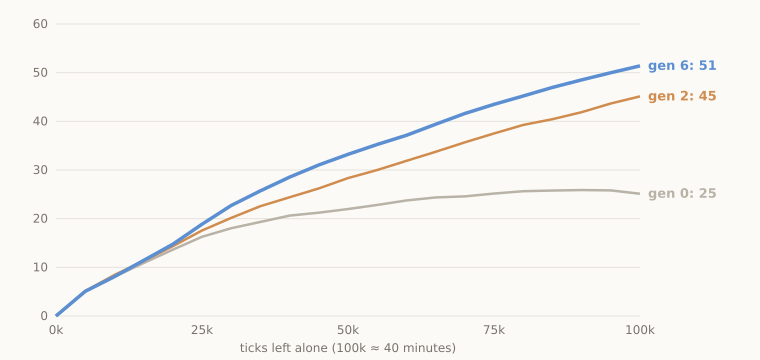
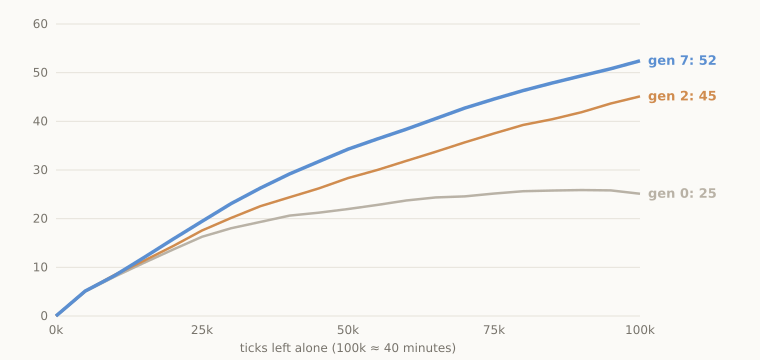
Gen 7: adits into hillsides for worlds with no room for a shaft
When no mine shaft fits (mountain tops), the colony drives a tunnel straight
into the hillside from a standable ledge: an open cutting that becomes a roofed,
timbered tunnel, then a nest with its own store and rooms. Adits are only
tried after a shaft search has recently failed.

Benchmark (32 worlds, 100k ticks): 28.5 / 52.4 at 40 min / worst 16.2,
up from 27.8 / 51.4 / 6.7. Experiments page updated with a Gen 7 section.

Claude-Session: https://claude.ai/code/session_012QCncmftNLcYCcRZ8MbJiX

diff --git a/quartz/components/scripts/particles/colony.ts b/quartz/components/scripts/particles/colony.ts
@@ -130,7 +130,13 @@ export interface Nest {
   s: number // surface row at the shaft
   b: number // bottom gallery's floor row
   levels: { y: number; xl: number; xr: number }[] // galleries: floor row, dug columns
+  adit?: boolean // dug straight into a hillside: no shaft
+  store?: number[] // where its store is, if not beside the shaft
 }
+
+// where a nest's galleries are measured from (for the timber spacing)
+const nestOrigin = (n: Nest) => (n.adit && n.store ? n.store[0] : n.lx + 1)
+const nestStore = (n: Nest) => n.store ?? [n.lx - 3, n.s - 1]
 
 export interface Colony {
   homeX: number
@@ -153,6 +159,7 @@ export interface Colony {
   gapBridges: number
   nests: Nest[] // finished mines and the tunnels dug off them
   badSites: number[][] // [x0, x1, until tick]: recently abandoned, don't build there
+  mineFailT?: number // last time no site for a mine shaft could be found
   safeT: number // tick the safe set was last computed
   safeDirty: boolean
   stats: { placed: number; felled: number; arrived: number; towers: number }
@@ -1189,14 +1196,17 @@ function workQuarry(w: World, g: Guy) {
 // mine shaft, and the ground floor of every finished tower. They share one stock, so
 // a guy just uses the nearest.
 export function depots(c: Colony): number[][] {
-  return [[c.homeX, c.homeY], ...c.nests.map((n) => [n.lx - 3, n.s - 1])]
+  return [[c.homeX, c.homeY], ...c.nests.map(nestStore)]
 }
 
 function startStock(w: World, g: Guy, mode: "deposit" | "withdraw", r = 0, need = 0): boolean {
   const c = w.colony
   w.nav.beginGoals()
   w.nav.markBox(c.homeX, c.homeY, 4, -3, 3, 0)
-  for (const n of c.nests) w.nav.markBox(n.lx - 3, n.s - 1, 2, -2, 2, 0)
+  for (const n of c.nests) {
+    const [x, y] = nestStore(n)
+    w.nav.markBox(x, y, 2, -2, 2, 0)
+  }
   for (const t of c.towers)
     if (t.complete) w.nav.markBox((t.x0 + t.x1) >> 1, t.base - 1, ((t.x1 - t.x0) >> 1) - 1, 0, 0, 0)
   if (!go(w, g)) return false
@@ -1434,6 +1444,11 @@ function plan(w: World) {
         ],
         [c.gapBridges < 1 + Math.floor(w.W / 160) ? 2.5 : 0, () => tryGapBridge(w)],
         [c.nests.length ? 2 + idle : 0, () => tryTunnel(w)],
+        // adits are for when there's nowhere flat enough for a mine shaft
+        [
+          c.mines < 1 + Math.floor(w.W / 160) && w.tick - (c.mineFailT ?? -1e9) < 3000 ? 3 : 0,
+          () => tryAdit(w),
+        ],
       ]
       // weighted shuffle, then take the first that works
       const order: (() => boolean)[] = []
@@ -1549,6 +1564,17 @@ function completeProject(w: World, p: Project) {
     const d = p.data
     c.nests.push({ lx: d.lx, s: d.s, b: d.b, levels: [{ y: d.b, xl: d.xl, xr: d.xr }] })
     nestRooms(w, c.nests.length - 1, d.b, d.xl, d.xr)
+  } else if (p.kind === "adit" && p.data) {
+    const d = p.data
+    c.nests.push({
+      lx: d.x,
+      s: d.y + 1,
+      b: d.y,
+      levels: [{ y: d.y, xl: d.xl, xr: d.xr }],
+      adit: true,
+      store: [d.x, d.y],
+    })
+    nestRooms(w, c.nests.length - 1, d.y, d.xl, d.xr)
   } else if (p.kind === "tunnel" && p.data) {
     const d = p.data
     const n = c.nests[d.nest]
@@ -2268,7 +2294,7 @@ function nestRooms(w: World, nest: number, y: number, xl: number, xr: number) {
   const runs: [number, number][] = []
   let a = -1
   for (let x = xl; x <= xr + 1; x++) {
-    const ok = x <= xr && (!n || x < n.lx - 1 || x > n.lx + 3) && w.get(x, y) === EMPTY
+    const ok = x <= xr && (!n || n.adit || x < n.lx - 1 || x > n.lx + 3) && w.get(x, y) === EMPTY
     if (ok && a < 0) a = x
     if (!ok && a >= 0) {
       runs.push([a, x - 1])
@@ -2340,7 +2366,7 @@ function tryTunnel(w: World): boolean {
       }
     }
     // or open a new level off the shaft
-    for (let y = n.b - 12; y - GALLERY_H - 2 > n.s + 2; y -= 12) {
+    for (let y = n.b - 12; !n.adit && y - GALLERY_H - 2 > n.s + 2; y -= 12) {
       if (n.levels.some((l) => l.y === y)) continue
       for (const dir of [-1, 1]) {
         const cols = run(dir < 0 ? n.lx - 2 : n.lx + 4, dir, y)
@@ -2360,7 +2386,7 @@ function tryTunnel(w: World): boolean {
     }
   const n = c.nests[cand.nest]
   const steps: Step[] = []
-  for (const x of cand.cols) steps.push(...gallerySteps(x, cand.y, Math.abs(x - (n.lx + 1))))
+  for (const x of cand.cols) steps.push(...gallerySteps(x, cand.y, Math.abs(x - nestOrigin(n))))
   reserveSteps(w, steps, MINE)
   const xs = cand.cols
   addProject(w, "tunnel", steps, -1, 2, {
@@ -2369,6 +2395,90 @@ function tryTunnel(w: World): boolean {
     xl: Math.min(...xs),
     xr: Math.max(...xs),
   })
+  return true
+}
+
+// An adit: a tunnel driven straight into a hillside from the foot of a slope, for
+// worlds too steep for a mine shaft. It becomes a nest like any other.
+// Returns 0 (can't dig here), 1 (an open cutting into the slope) or 2 (a proper
+// tunnel, solid all round with a roof); once it's a tunnel it has to stay one.
+function aditCol(w: World, x: number, y: number, covered: boolean): number {
+  const { W, H } = w
+  if (x < 4 || x >= W - 4 || y + 1 >= H || y - GALLERY_H - 3 < 0) return 0
+  if (!SOLID[w.get(x, y + 1)]) return 0
+  let roofed = true
+  for (let yy = y - GALLERY_H - 2; yy <= y; yy++) {
+    const v = w.grid[yy * W + x]
+    if (!SOLID[v] || BUILT[v] || DYNAMIC[v]) roofed = false
+  }
+  if (covered && !roofed) return 0
+  const top = roofed ? y - GALLERY_H - 2 : y - GALLERY_H + 1
+  for (let yy = top; yy <= y; yy++) {
+    const k = yy * W + x
+    const v = w.grid[k]
+    if (w.noBuild[k] || w.reserved[k] || BUILT_BG[w.bg[k]] || BUILT[v] || DYNAMIC[v] || v === TEXT)
+      return 0
+    if (v === WATER) return 0
+    if (!SOLID[v] && (roofed || v !== EMPTY)) return 0
+  }
+  for (let yy = 0; yy < top; yy++) {
+    const v = w.grid[yy * W + x]
+    if (DYNAMIC[v] || v === WATER) return 0
+  }
+  return roofed ? 2 : 1
+}
+
+function tryAdit(w: World): boolean {
+  const c = w.colony
+  if (c.projects.some((p) => !p.done && (p.kind === "adit" || p.kind === "mine"))) return false
+  const { W } = w
+  const r = w.rng
+  let best: { x: number; y: number; dir: number; cols: number[]; score: number } | null = null
+  for (let i = 0; i < 80; i++) {
+    const x = 6 + r.int(W - 12)
+    const y = surfaceAt(w, x) - 1
+    if (!standable(w, x, y) || !w.nav.isSafe(y * W + x)) continue
+    if (c.nests.some((n) => Math.abs(nestStore(n)[0] - x) < 24)) continue
+    for (const dir of [-1, 1]) {
+      // a hillside right in front, solid at body height
+      let solid = 0
+      for (let d = 1; d <= 3; d++)
+        for (let yy = y - GALLERY_H + 1; yy <= y; yy++) if (SOLID[w.get(x + dir * d, yy)]) solid++
+      if (solid < 14) continue
+      const cols: number[] = []
+      let covered = false,
+        cut = 0
+      for (let d = 1; d <= 24; d++) {
+        const k = aditCol(w, x + dir * d, y, covered)
+        if (!k || (k === 1 && ++cut > 12)) break
+        if (k === 2) covered = true
+        cols.push(x + dir * d)
+        if (covered && cols.length >= 18) break
+      }
+      // it has to actually go into the hill
+      if (!covered || cols.length < 6) continue
+      const score = cols.length - Math.abs(x - c.homeX) * 0.05 + r.next()
+      if (!best || score > best.score) best = { x, y, dir, cols, score }
+    }
+  }
+  if (!best) return false
+  const { x, y, cols } = best
+  const steps: Step[] = []
+  for (const cx of cols) {
+    const d = Math.abs(cx - x)
+    for (let yy = y; yy > y - GALLERY_H; yy--)
+      if (w.get(cx, yy) !== EMPTY) steps.push(mkStep(cx, yy, EMPTY, L_CLEAR))
+    // timber once there's a roof overhead
+    if (d > 2 && SOLID[w.get(cx, y - GALLERY_H)]) {
+      steps.push(mkStep(cx, y - GALLERY_H + 1, FRAME, L_BG))
+      if (d % 4 === 0)
+        for (let yy = y; yy > y - GALLERY_H + 1; yy--) steps.push(mkStep(cx, yy, FRAME, L_BG))
+      if (d % 12 === 6) steps.push(mkStep(cx, y - GALLERY_H + 3, LANTERN, L_BG))
+    }
+  }
+  reserveSteps(w, steps, MINE)
+  c.mines++
+  addProject(w, "adit", steps, -1, 3, { x, y, xl: Math.min(...cols), xr: Math.max(...cols) })
   return true
 }
 
@@ -2440,7 +2550,10 @@ function tryMine(w: World): boolean {
     const score = L + R - Math.abs(lx - c.homeX) * 0.1
     if (!best || score > best.score) best = { lx, s, b, L, R, score }
   }
-  if (!best) return false
+  if (!best) {
+    c.mineFailT = w.tick
+    return false
+  }
   const { lx, s, b, L, R } = best
   const steps: Step[] = []
   // clear the trees off the spot first

diff --git a/quartz/components/scripts/particles/furniture.ts b/quartz/components/scripts/particles/furniture.ts
@@ -126,8 +126,8 @@ function drawStock(w: World, out: Uint32Array) {
     for (let i = 0; i < 3 - r; i++) put(c.homeX + 4 + i, c.homeY - r, ROCKS[(i + r) & 1])
   // and a smaller store at the head of each mine shaft
   for (const n of c.nests ?? []) {
-    const x = n.lx - 6,
-      y = n.s - 1
+    const x = n.store ? n.store[0] - 2 : n.lx - 6,
+      y = n.store ? n.store[1] : n.s - 1
     if (c.stock[1] > 0) for (let i = 0; i < 3; i++) put(x + i, y, i === 0 ? LOG_END : LOG)
     if (c.stock[1] > 300) for (let i = 0; i < 2; i++) put(x + i, y - 1, i === 0 ? LOG_END : LOG)
     if (c.stock[2] > 0) put(x + 3, y, ROCKS[0])

diff --git a/content/Experiments/Ant Colony.md b/content/Experiments/Ant Colony.md
@@ -13,20 +13,21 @@ There's a little world under the text on this site's [front page](/): sand, wate
 
 To make "busier" something I can measure, there's a benchmark. It takes 32 random worlds (8 seeds, each laid out like the real front page at laptop, HD, tablet and phone sizes) and leaves each alone for 100,000 ticks, about 40 minutes on the page. The **score** is how much of the screen the guys have changed (built on or dug out), in thousandths of the screen, minus a penalty whenever a guy gets stuck: stranded somewhere, walking without getting anywhere, or going round in a loop. A guy who simply has nothing left to do isn't counted as stuck. The headline number averages the whole run, with the early part counting a bit more, so getting going quickly matters.
 
-The rules: anything the guys *do* can change, but the terrain generator and the materials can't.
+The rules: anything the guys _do_ can change, but the terrain generator and the materials can't.
 
 ![[Assets/ant-colony/score-chart.png]]
 
-| generation | score | after 40 minutes | worst world |
-|---|--:|--:|--:|
-| 0: where it started | 18.5 | 25.1 | -52.9 |
-| 2: the nest | 24.4 | 45.1 | 13.3 |
-| 4: stores and swimmers | 24.7 | 44.9 | 13.3 |
-| 6: more diggers, sooner | **27.8** | **51.4** | 6.7 |
+| generation              |    score | after 40 minutes | worst world |
+| ----------------------- | -------: | ---------------: | ----------: |
+| 0: where it started     |     18.5 |             25.1 |       -52.9 |
+| 2: the nest             |     24.4 |             45.1 |        13.3 |
+| 4: stores and swimmers  |     24.7 |             44.9 |        13.3 |
+| 6: more diggers, sooner |     27.8 |             51.4 |         6.7 |
+| 7: into the hills       | **28.5** |         **52.4** |    **16.2** |
 
 ![[Assets/ant-colony/gen0-gen6-tablet-706844.png]]
 
-*The same tablet world after 40 minutes, at the start and now.*
+_The same tablet world after 40 minutes, at the start and now._
 
 ## Gen 0: where it started
 
@@ -40,7 +41,7 @@ They also carry three times as much wood per trip. Before, guys spent 55% of the
 
 ![[Assets/ant-colony/gen0-gen6-phone-825701.png]]
 
-*A phone world: before, two guys standing on a hill; now towers and a furnished nest.*
+_A phone world: before, two guys standing on a hill; now towers and a furnished nest._
 
 ## Gens 3 and 4: stores and swimmers
 
@@ -52,7 +53,15 @@ The first mine was one enormous job, and the nest didn't open until about 50,000
 
 ![[Assets/ant-colony/gen0-gen6-hd-202618.png]]
 
-*An HD world: the same towers, and now three levels of rooms under the town.*
+_An HD world: the same towers, and now three levels of rooms under the town._
+
+## Gen 7: into the hills
+
+The weakest worlds were mountain tops: nowhere flat enough for a mine shaft, so nothing got dug at all. When no shaft fits, the guys now drive an **adit**, a tunnel straight into the hillside from a ledge they can stand on. It starts as an open cutting, gets roofed over and propped with timber as it goes deeper, and once it's done it becomes a nest like any other, with its own store and rooms. The worst of the 32 worlds now scores 16 instead of 7.
+
+![[Assets/ant-colony/gen6-gen7-tablet-34153.png]]
+
+_A mountain-top tablet world: before, one tower and nothing dug; now a tunnel through the hill, with a store at its mouth._
 
 ## Little things fixed along the way
 
@@ -65,10 +74,5 @@ The first mine was one enormous job, and the nest didn't open until about 50,000
 
 ## Still to do
 
-![[Assets/ant-colony/gen6-mountain.png]]
-
-*The weakest world: the colony lives on a mountain top. Nowhere is flat enough for a mine shaft, so nothing gets dug at all, and guys strand themselves on the slopes.*
-
-- Mountains: tunnelling straight into hillsides, not just down from flat ground.
 - Wide screens: everything still happens near home.
 - Guys still walk far more than they work.
